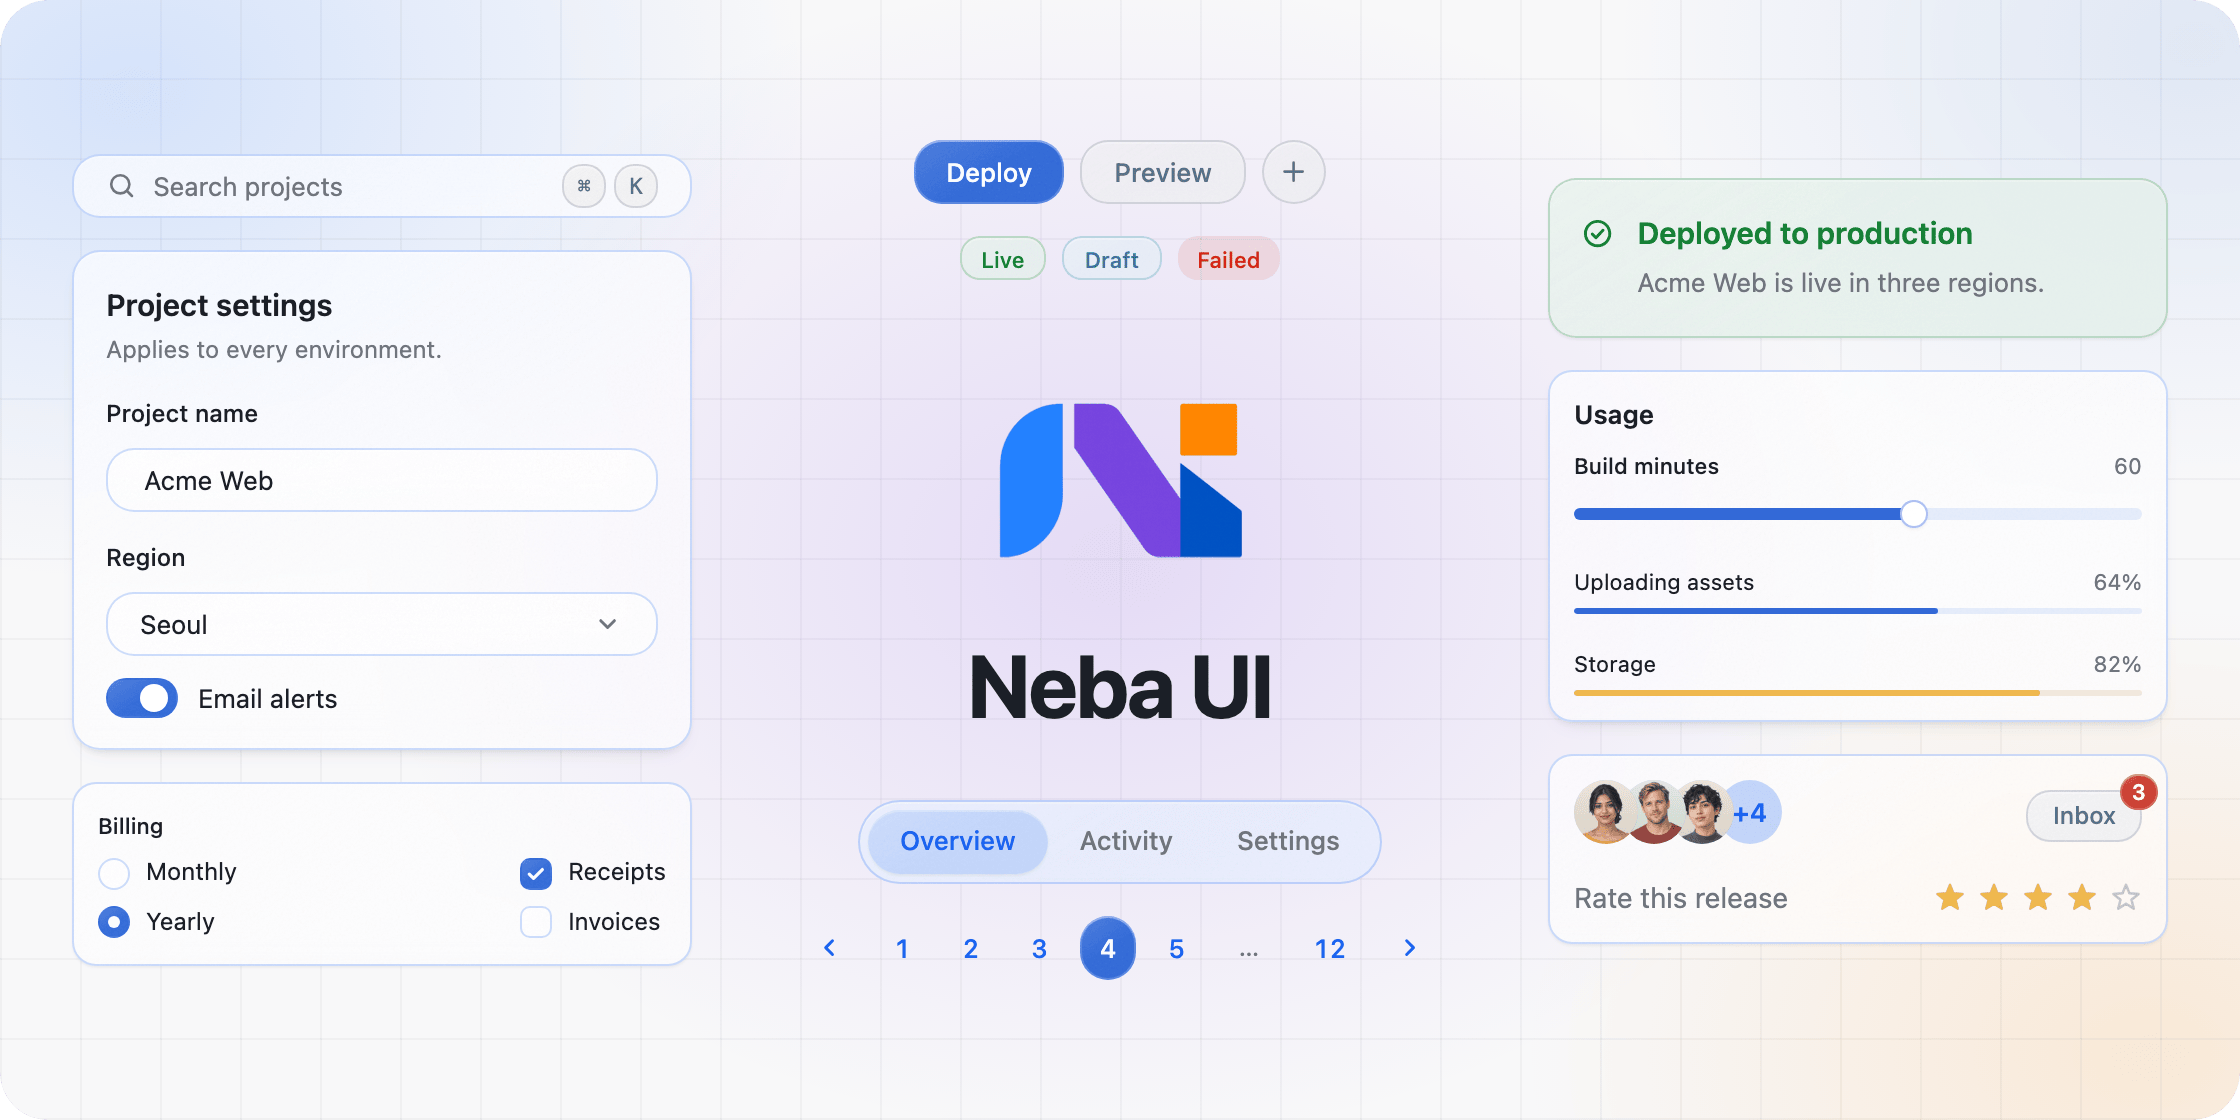
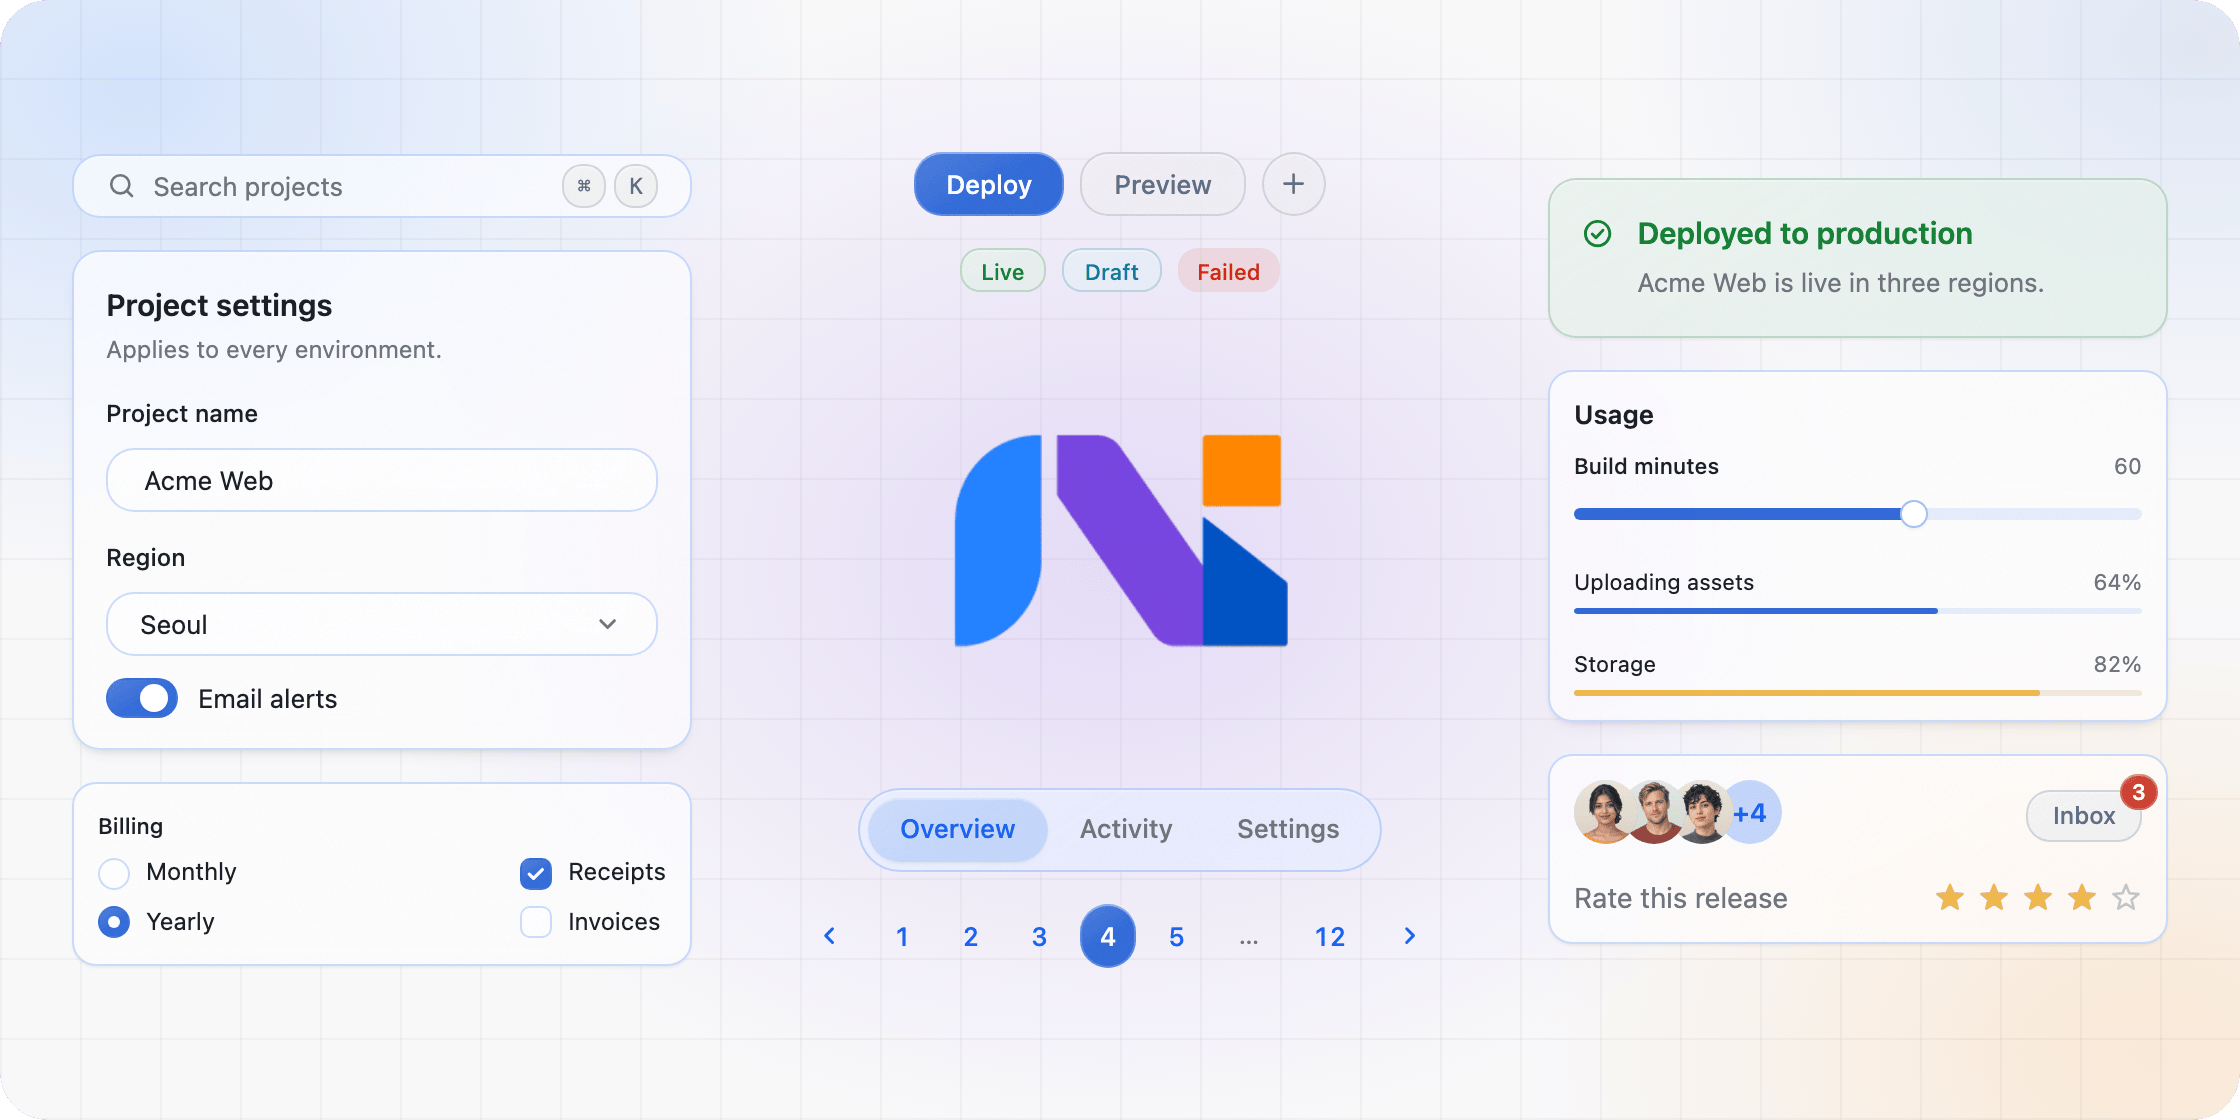
docs: put the showcase under the README lede, without the wordmark or the docs badge

Changed region(s): [[0.4062, 0.3438, 0.5938, 0.6562], [0.375, 0.6875, 0.625, 0.875], [0.4062, 0.125, 0.5938, 0.2812]]

diff --git a/README.md b/README.md
@@ -4,11 +4,9 @@
 
 [![license](https://img.shields.io/badge/license-MIT-blue.svg)](https://github.com/jooy2/neba/blob/main/LICENSE) ![Programming Language Usage](https://img.shields.io/github/languages/top/jooy2/neba) ![Commit Count](https://img.shields.io/github/commit-activity/y/jooy2/neba) [![npm downloads](https://img.shields.io/npm/dm/neba.svg)](https://www.npmjs.com/package/neba) [![npm latest package](https://img.shields.io/npm/v/neba/latest.svg)](https://www.npmjs.com/package/neba) ![npm bundle size](https://img.shields.io/bundlephobia/min/neba) [![Followers](https://img.shields.io/github/followers/jooy2?style=social)](https://github.com/jooy2) ![Stars](https://img.shields.io/github/stars/jooy2/neba?style=social)
 
-### 📘 [**neba.cdget.com**](https://neba.cdget.com)
-
-[![Components](https://img.shields.io/badge/All_components-live_previews-444?style=for-the-badge)](https://neba.cdget.com/examples/overview)
-
 Live previews and full props for every component. This README is just the quick start.
+
+![Neba UI components arranged around the Neba mark: a search field, a settings card, radio buttons and checkboxes, buttons and chips, a segmented button and pagination, a success alert, a slider, a progress bar and a meter, an avatar stack, a badge and a rating](.github/showcase.png)
 
 ---
 
@@ -23,8 +21,6 @@ You install one package, add one line to your CSS, and import components. There 
 - **A design language, not a theme file**: a translucent acrylic surface with a hairline edge, one deliberate motion signature, and shadows that are opt-in.
 - **ESM only**, TypeScript declarations included, and genuinely tree-shakeable: every component compiles to its own module, and importing one costs about what one costs. A `Button` is ~5 kB gzipped including its Base UI parts, a `Chip` is ~3 kB, and a twelve-component app is ~70 kB; the whole library, all one hundred and seventy-five exports at once, is ~265 kB.
 - **Two runtime dependencies**: Base UI, and `highlight.js`, which only [CodeBlock](https://neba.cdget.com/components/display/code-block) reaches and only through a dynamic import, so it never lands in a bundle that did not ask for it. React 18 or 19, Node.js 18 or later.
-
-![Neba UI components arranged around the Neba mark: a search field, a settings card, radio buttons and checkboxes, buttons and chips, a segmented button and pagination, a success alert, a slider, a progress bar and a meter, an avatar stack, a badge and a rating](.github/showcase.png)
 
 ## Documentation
 
